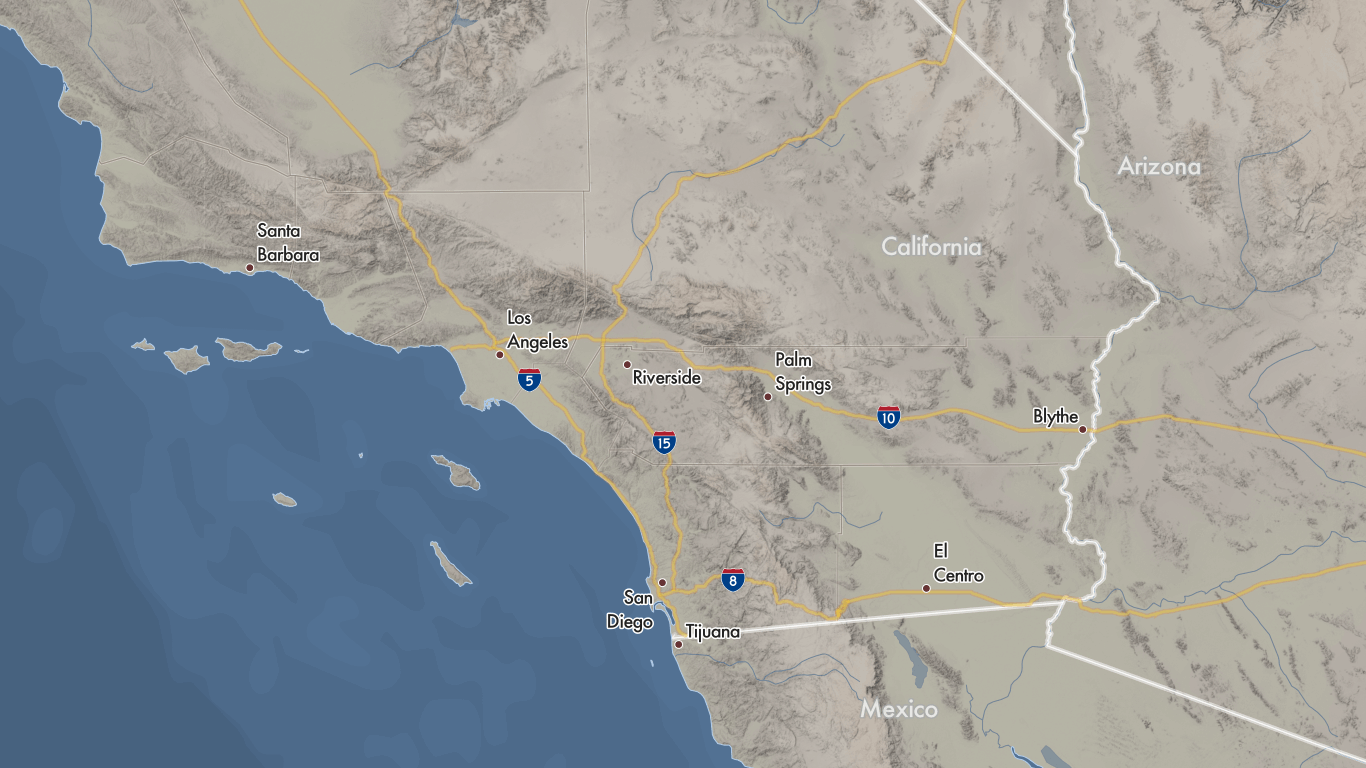
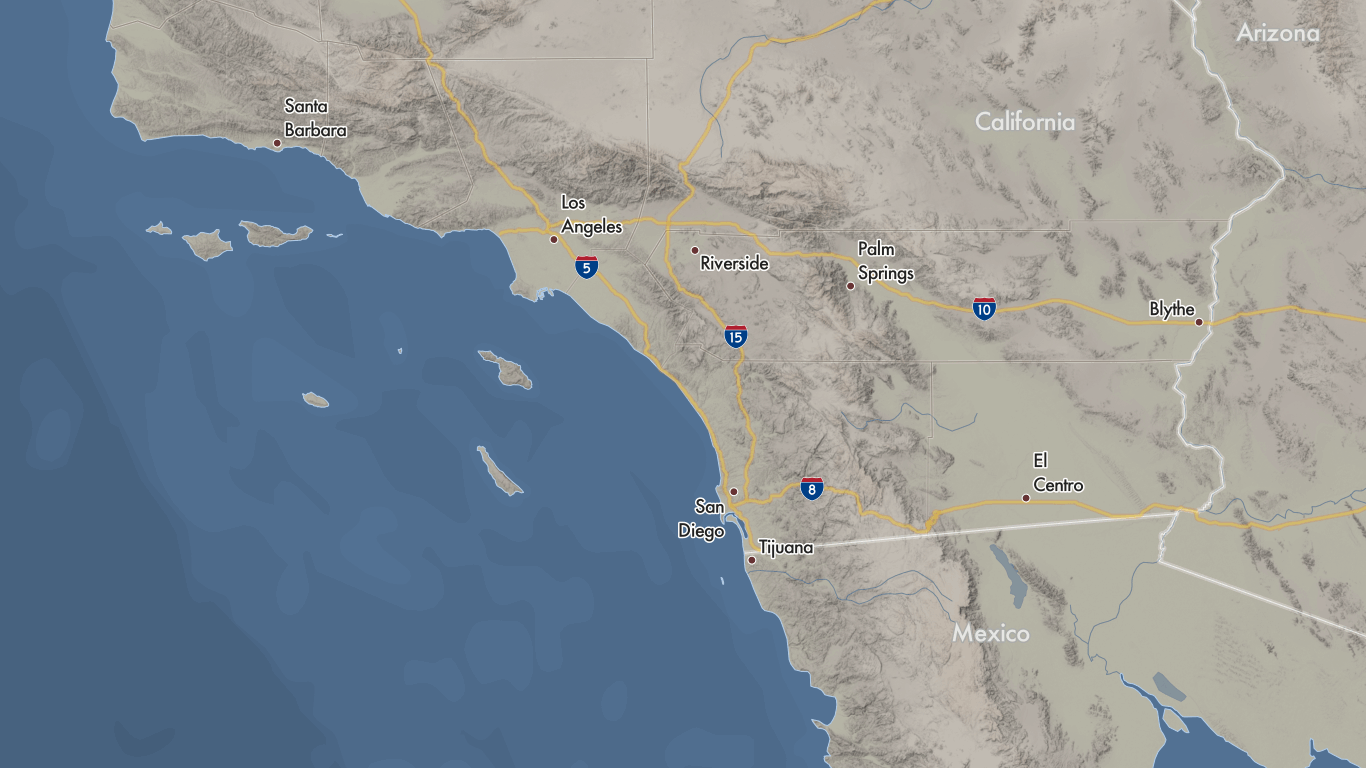
Regretable catchall commit
Too late.

Animations, new pages, and new maps.

diff --git a/client/stylesheets/style.less b/client/stylesheets/style.less
@@ -85,7 +85,6 @@ body {
 }
 .map-tp-menu {
   background-image: url("/images/map-base-human.png");
-  background-position: 0 -100px;
 }
 
 .map-tp-menu.natural {
@@ -94,6 +93,11 @@ body {
 
 .map-tp-park {
   background-image: url("/images/map-tp-park.png");
+  background-position: 40px 0;
+}
+
+.map-tp-extent {
+  background-image: url("/images/map-tp-extent.png");
 }
 
 /**
@@ -113,9 +117,10 @@ h1, h2, h3 {
 }
 
 .welcome-title {
+  z-index: 2000;
   font-family: 'FuturaTS-Medium';
   left: 29px;
-  bottom: 266px;
+  bottom: 16px;
   color: white;
   /*background: rgba(255, 255, 255, .1);*/
   padding: 20px;
@@ -225,6 +230,14 @@ h1, h2, h3 {
   /*border-right: 1px solid darken(@desert-brown, 8%);*/
 }
 
+.buttons-tp .btn {
+  -webkit-transform: scale(1);
+}
+
+.buttons-tp .btn.loading{
+  -webkit-transform: scale(0);
+}
+
 .buttons-tp .tp-1 {
   background: darken(@torrey-pines-buttons, 5%);
   padding-left: 36px;
@@ -267,16 +280,7 @@ h1, h2, h3 {
   box-shadow: 2px 2px 20px @shadow-grey;
 }
 
-.btn-home {
-  position: absolute;
-  bottom: 30px;
-  left: 45px;
-  background: white;
-  font-size: 2em;
-  box-shadow: 2px 2px 20px @shadow-grey;
-  padding: 10px;
-  color: @border-grey;
-}
+
 
 .btn-lang {
   left: 1140px;
@@ -296,14 +300,34 @@ h1, h2, h3 {
  */
 .body-copy {
   position: absolute;
-  background: lighten(@background-tan, 15%);
+  background: lighten(@background-tan, 6%);
   bottom: 0;
-  right: 0;
+  left: 0;
   padding: 1em;
-  width: 543px;
   height: 100%;
   font-size: 1.3em;
   box-shadow: 2px 2px 20px @shadow-grey;
+}
+
+.body-copy img {
+  width: 500px;
+}
+
+.body-copy,
+.btn-home {
+  width: 543px;
+}
+
+.btn-home {
+  position: absolute;
+  bottom: 0px;
+  left: 0px;
+  background: lighten(@background-tan, 1%);
+  font-size: 1.5em;
+  padding: 10px;
+  color: @border-grey;
+  box-shadow: -1px 0px 10px @shadow-grey;
+  text-align: center;
 }
 
 .body-copy h3 {
@@ -327,6 +351,22 @@ h1, h2, h3 {
   font-size: .9em;
   font-style: italic;
   letter-spacing: 0.03em;
+}
+
+.map-tp-park + .body-copy:after {
+	left: 100%;
+	top: 35%;
+	border: solid transparent;
+	content: " ";
+	height: 0;
+	width: 0;
+	position: absolute;
+	pointer-events: none;
+	border-color: rgba(136, 183, 213, 0);
+  border-left-color: lighten(@background-tan, 6%);
+	/*border-left-color: #88b7d5;*/
+	border-width: 60px;
+	margin-top: -60px;
 }
 
 /**
@@ -381,6 +421,8 @@ h1, h2, h3 {
   bottom: -40px;
   left: -30px;
   z-index: 1000;
+  /*-webkit-clip-path: polygon(41px 443px, 667px 465px, 666px 0px, 57px 10px);*/
+  -webkit-clip-path: polygon(49px 453px, 667px 453px, 666px 0px, 49px 0px)
 }
 
 .jaunt-left-02 {

diff --git a/client/views/pages/pages.js b/client/views/pages/pages.js
@@ -1,8 +1,36 @@
 Template.page.helpers({
-    pageClass: function() {
+    attributes: function() {
         pageId = this.buttonTitle;
         //pageClass = pageId.replace(/([a-z])([A-Z])/g, '$1-$2').toLowerCase();
         pageClass = pageId.replace(/\s+/g, '-').toLowerCase();
-        return pageClass;
+
+        order = this.order;
+        var attributes = {};
+        var delta = 50;
+        delay = ((order * 50) + 0);
+        attributes.style = [
+            'transition-duration: 300ms;',
+            //'transition-timing-function: linear;',
+            'transition-timing-function: cubic-bezier(0.330, 0.005, 0.000, 1.000);',
+            'transition-delay: ' + delay + 'ms;'
+        ];
+        attributes.class = [
+            'btn ',
+            'btn-block ',
+            pageClass + ' ',
+            'tp-' + order + ' ',
+            'loading'
+        ]
+
+        return attributes;
+    },
+    pageClass: function() {
     },
 });
+
+Template.page.rendered = function() {
+    var $item = $(this.find('.btn'));
+    Meteor.defer(function() {
+        $item.removeClass('loading');
+    });
+};

diff --git a/server/fixtures.js b/server/fixtures.js
@@ -50,7 +50,7 @@ if (Components.find().count() === 0) {
         description: 'The Torrey Pine is a rare tree. This WAW explores its natural environment.',
         componentNum: '0416',
         order: 2,
-        mural: 'tp-mural.jpg',
+        mural: 'tp-mural-2.jpg',
         bodyCopy: dimsum()
     });
 
@@ -74,6 +74,10 @@ if (Components.find().count() === 0) {
         userId: admin._id,
         order: 2,
         author: admin.profile.name,
+        bodyCopy: 'The Torrey Pine is so rare it is found in only two places in the world—Torrey Pines State Reserve and Santa Rosa Island.',
+        espBodyCopy: 'El pino de Torrey es tan raro que sólo se encuentra en dos lugares en el mundo-- Reserva Estatal Torrey Pines y la isla de Santa Rosa.',
+        backgroundMapClass: 'map-tp-extent',
+        bodyImage: 'tp-tree-rare.jpg'
     });
 
     var tpRareHabitat = Pages.insert({

diff --git a/server/publications.js b/server/publications.js
@@ -17,9 +17,10 @@ Meteor.publish('singleComponent', function(id) {
   //return Pages.find();
 //});
 
-// This should work, but isn't right now
 Meteor.publish('pages', function(componentId) {
-  return Pages.find({componentId: componentId});
+  return Pages.find({componentId: componentId}, {sort: {order: 1}});
+  // Works
+  //return Pages.find({componentId: componentId});
 });
 
 Meteor.publish('singlePage', function(id) {

diff --git a/client/views/pages/page.html b/client/views/pages/page.html
@@ -13,9 +13,9 @@
     </p>
   </div>
 
-  <a class="btn btn-home" href="{{pathFor 'componentPage' _id=this.componentId}}">
-    Home
-    <!--<span class="glyphicon glyphicon-home"></span>-->
+  <a class="btn-home" href="{{pathFor 'componentPage' _id=this.componentId}}">
+    <!--Home-->
+    <span class="glyphicon glyphicon-home"></span>
   </a>
   <!-- /Page -->
 </template>

diff --git a/client/views/components/component_page.html b/client/views/components/component_page.html
@@ -9,7 +9,7 @@
     <div class="eng">{{title}}</div>
     <div class="esp">{{espTitle}}</div>
   </div>
-  <img class="postcard postcard-border jaunt-left-02 postcard-shadow" src="/images/{{mural}}">
+  <img class="postcard postcard-border postcard-shadow" src="/images/{{mural}}">
   <!-- Menu -->
   <div class="pabs menu-footer">
     <div class="buttons buttons-tp">

diff --git a/client/views/pages/pages.html b/client/views/pages/pages.html
@@ -1,6 +1,6 @@
 <template name="page">
   <!-- pages.html - Navigation elements-->
-  <a class="btn btn-block {{pageClass}} tp-{{order}}" href="{{pathFor 'pagePage'}}">
+  <a {{attributes}} href="{{pathFor 'pagePage'}}">
     {{buttonTitle}}<br>
     <span class="esp">{{espButtonTitle}}</span>
   </a>
